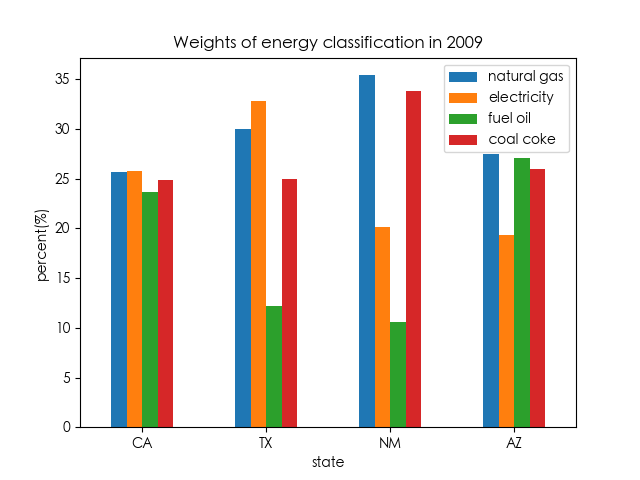
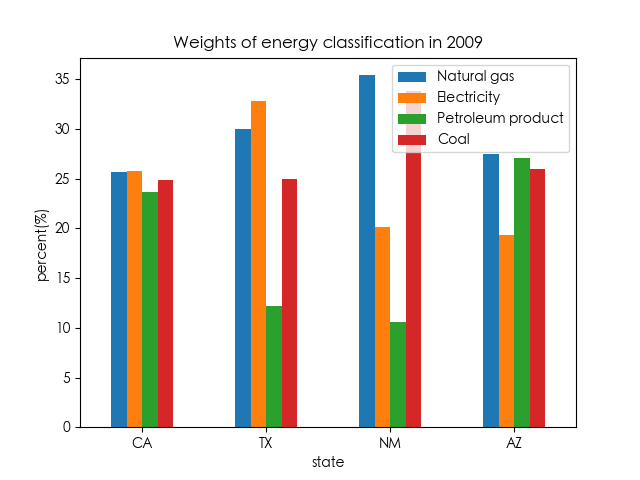
chore: update the paper and code figures

Changed region(s): [[0.5938, 0.125, 0.875, 0.3438]]

diff --git a/Model.tex b/Model.tex
@@ -71,13 +71,10 @@
 \par A data file provides 50 years of data in 605 variables on each of these four states' energy production and consumption, along with some demographic and economic information. In order to inform a set of goals for the new interstate energy compact, we will analyze the given data and model.
 
 
-
-
-
-\subsection{Problem Restatement and Analysis}
+\subsection{Problem Restatement}
 %这一部分写问题分析以及我们要解决的问题
-\subsubsection{Probelms of Part \uppercase\expandafter{\romannumeral1}}
-\par For Problem A, in order to lay the foundation of analyzing , we are required to create an energy profile for each of the four states. Meanwhile, the profiles should be created on the analysis of the given data.
+% \subsubsection{Part \uppercase\expandafter{\romannumeral1}}
+\par For Problem A, in order to lay the foundation of analyzing, we are required to create an energy profile for each of the four states. Meanwhile, the profiles should be created on the analysis of the given data.
 
 \par In regard to Problem B, 
 
@@ -85,12 +82,12 @@
 
 \par For Problem D, in order to predict energy profile of usage of each state in 2025 and 2050, we need to base on the results of Problem A, B, C and the given data to establish regression equations or other models.
 
-\subsubsection{Problems of Part \uppercase\expandafter{\romannumeral2}}
-\par It is suggested in the Problem A that, we need to build a target model, which is based on the problems of Part $\uppercase\expandafter{\romannumeral1}$ to give the four states goals for the new four-state energy compact.
+% \subsubsection{Part \uppercase\expandafter{\romannumeral2}}
+\par It is suggested in the Problem A that,
 
 \par As for Problem B, we are supposed to give some suggestions to the governors, so that they will know that the actions they should take to meet the goals.
 
-\subsubsection{Part \uppercase\expandafter{\romannumeral3}}
+% \subsubsection{Part \uppercase\expandafter{\romannumeral3}}
 \par On the basis of the analysis and models in the two parts before, we prepare the state profiles of 2009, our predictions towards energy usage and some recommendations on adopting goals for the energy compact.
 
 
@@ -114,15 +111,15 @@ In the section, we use some symbols for constructing the model as follows.
     \toprule[2pt]
     \textbf{Symbol} & \makecell[c]{\textbf{Description}}\\
     \hline
-$R$&The correlation coefficient matrix of natural gas, electricity, fuel oil and coal coke.\\ 
+$R$&The correlation coefficient matrix of natural gas, electricity, petroleum products and coal.\\ 
 $\lambda_i$&The eigenvalue of R, i=1,2,3,4.\\
 $U$&The Eigenvector matrix for the eigenvalues of R.\\ 
 $A$&The factor loading matrix.\\
 $f_i$&Factor, i=1,2.\\ 
 $w_1$&The weight of natural gas.\\ 
 $w_2$&The weight of electricity.\\ 
-$w_3$&The weight of fuel oil.\\ 
-$w_4$&The weight of coal coke.\\ 
+$w_3$&The weight of petroleum products.\\ 
+$w_4$&The weight of coal.\\ 
 $\eta_1$&The proportion of renewable energy in total energy.\\
 $\eta_2$&The proportion of different sector in renewable energy usage.\\
 $Y$&The level of renewable energy usage.\\ 
@@ -179,7 +176,7 @@ $S_i$&The amount of the total renewable energy usage of each of the four states,
 
 \begin{figure}[h]%[!hptb]
     \centering 
-    \includegraphics[width=0.8\textwidth]{./Pic/msn_5.png}
+    \includegraphics[width=0.65\textwidth]{./Pic/msn_5.png}
     % 图片标题
     \caption{The meaning of a MSN code, emphasizing the fifth character. Reference \url{https://www.eia.gov/state/seds/sep_use/notes/use_a.pdf}}
     \label{fig:msn_5}  
@@ -196,44 +193,64 @@ $S_i$&The amount of the total renewable energy usage of each of the four states,
 \subsubsection {MSN classification analysis by energy unit}
 
 
+\par In order to classify the 215 MSNs more clearly, we look into everyone of the division and find that a large percent of the kinds have the suffix P, which represents the standardized physical units. Physical units naturally represent for the energy classification in the real physical world, and there are mainly \textbf{4 kinds of standardized physical units} in the data set as can be seen in figure \ref{tab:energy-unit}, so it is reasonable to classify the data into 4 groups according to the units.
+% \par According to the analysis above, we suppose the four units as the following representatives.
 
-\par In order to classify the 215 MSNs more clearly, we look into everyone of the division and find that a large percent of the kinds have the suffix P, which represents the standardized physical units. Physical units naturally represent for the energy classification in the real physical world, and there are mainly \textbf{4 kinds of standardized physical units} in the data set as can be seen in figure \ref{fig:classification_by_unit}, so it is reasonable to classify the data into 4 groups according to the units.
-\par According to the analysis above, we suppose the four units as the following representatives.
-\par \textbf{fule oil}: Thousand barrels;
-\textbf{coal coke}: Thousand short tons;
-\textbf{electricity}: Million kilowatt-hours;
-\textbf{natural gas}: Million cubic feet.
+\begin{table}[H]
+    \centering
+    \begin{tabular}{|c|c|}
+        \hline Energy name & Unit\\
+        \hline Petroleum product & Thousand barrels\\
+        \hline Coal & Thousand short tons\\
+        \hline Electricity & Million kilowatthours\\
+        \hline Natural gas & Million cubic feet\\
+        \hline
+    \end{tabular}
+    \caption{Energy name and unit reference table}\label{tab:energy-unit}
+\end{table}
 
-\begin{figure}[!h]%[!hptb] 
-    \centering 
-    \includegraphics[width=0.8\textwidth]{./Pic/classification_by_unit.png}
-    \caption{Classification by unit in the suffix P.}
-    \label{fig:classification_by_unit}  
-\end{figure}
+
+% \par Fule oil related MSN are: ABICP, ARICP, ARTCP, ARTXP, AVACP, AVTCP, AVTXP, CLTXP, COICP, DFACP, DFCCP, DFICP, DFRCP, DFTCP, DFTXP, DKEIP, EMTCP, ENACP, ENCCP, ENICP, ENPRP, ENTCP, ESTXP, FNICP, FOICP, FSICP, JFACP, JFTCP, JFTXP, JKACP, JKTCP, JNACP, JNTCP, KSCCP, KSICP, KSRCP, KSTCP, KSTXP, LGACP, LGCCP, LGICP, LGRCP, LGTCP, LGTXP, LUACP, LUICP, LUTCP, LUTXP, MBICP, MGACP, MGCCP, MGICP, MGTCP, MGTXP, MSICP, NAICP, P1ICP, P1TCP, P1TXP, PAACP, PACCP, PAEIP, PAICP, PAPRP, PARCP, PATCP, PATXP, PCCCP, PCEIP, PCICP, PCTCP, PLICP, POICP, POTCP, POTXP, PPICP, RFACP, RFCCP, RFEIP, RFICP, RFTCP, RFTXP, SGICP, SNICP, UOICP, USICP and WXICP;
+% \par coal related MSN are: CCEXP, CCIMP, CCNIP, CLACP, CLCCP, CLEIP, CLICP, CLKCP, CLOCP, CLPRP, CLRCP and CLTCP;
+% \par Electricity related MSN are: ELEXP, ELIMP, ELNIP, ESACP, ESCCP, ESICP, ESRCP, ESTCP, GEEGP, HYCCP, HYEGP, HYICP, HYTCP, HYTXP, NUEGP, NUETP, SOEGP and WYEGP;
+% \par Natural gas related MSN are: NGACP, NGCCP, NGEIP, NGICP, NGLPP, NGMPP, NGPZP, NGRCP, NGTCP, NGTXP and NGVHP.
+
+
+% \par \textbf{fule oil}: Thousand barrels;
+% \textbf{coal}: Thousand short tons;
+% \textbf{electricity}: Million kilowatt-hours;
+% \textbf{natural gas}: Million cubic feet.
+
+% \begin{figure}[!h]%[!hptb] 
+%     \centering 
+%     \includegraphics[width=0.8\textwidth]{./Pic/classification_by_unit.png}
+%     \caption{Classification by unit in the suffix P.}
+%     \label{fig:classification_by_unit}  
+% \end{figure}
 
 % 4.2
 \subsection{Factor analysis function}
 
-\par There are many relationships among MSNs. To simplify the complex dependencies between the four energy classification, we used factor analysis to establish an optimal model to analyze the actual weights of the four types of energy sources by following steps\cite{2}:
+\par There are many relationships among MSNs. To simplify the complex dependencies between the four energy classification, we used factor analysis to establish an optimal model to analyze the actual weights of the four types of energy sources.
 
 % \par According to the Formula in the Table A1.Consumption Variables,\cite{4} we remove variables that can be obtained by addition and subtraction of other variables so that we can avoid the repeat of variables when we calculate the correlation coefficient matrix. 
-\begin{enumerate}[Step 1:]
-\item Standardize data samples.
+% \begin{enumerate}[Step 1:]
+% \item Standardize data samples.
 
-\item Calculate the correlation matrix R of the sample.
+% \item Calculate the correlation matrix R of the sample.
 
-\item Find the eigenvalues and eigenvectors of the correlation matrix R.
+% \item Find the eigenvalues and eigenvectors of the correlation matrix R.
 
-\item According to the cumulative contribution rate of the system to determine the number of the main factor.
+% \item According to the cumulative contribution rate of the system to determine the number of the main factor.
 
-\item Calculate the factor load matrix A.
+% \item Calculate the factor load matrix A.
 
-\item Determine the factor model.
+% \item Determine the factor model.
 
-\item Based on the above calculation results, the system is analyzed.
-\end{enumerate}
+% \item Based on the above calculation results, the system is analyzed.
+% \end{enumerate}
 
-\par By using the given data, we can obtain R, which is the correlation coefficient matrix of natural gas, electricity, fuel oil and coal coke.
+\par By using the given data, we can obtain R, which is the correlation coefficient matrix of natural gas, electricity, petroleum products and coal.
 \begin{equation}
     \centering
 R=\begin{pmatrix} 1 & r_{12} & r_{13} & r_{14} \\ r_{21} & 1 & r_{23} & r_{24} \\ r_{31} & r_{32} & 1 & r_{34} \\ r_{41} & r_{42} & r_{43} & 1\end{pmatrix}
@@ -300,11 +317,11 @@ the second row of A is
 \end{equation}
 \begin{equation}
     \centering
-    \text{fuel oil}=a_{31} \times f_1+a_{32} \times f_2
+    \text{petroleum products}=a_{31} \times f_1+a_{32} \times f_2
 \end{equation}
 \begin{equation}
     \centering
-    \text{coal coke}=a_{41} \times f_1+a_{42} \times f_2
+    \text{coal}=a_{41} \times f_1+a_{42} \times f_2
 \end{equation}
 \par The definition of the weight of variables is\cite{5}
 \begin{equation}
@@ -316,7 +333,7 @@ w_i=\frac{ \theta_i }{ \sum_{i=1}^{4}\theta_i } \times 100\%
 \theta_i=A[i,1] \times \lambda_1+A[i,2] \times \lambda_2+A[i,3] \times \lambda_3+A[i,4] \times \lambda_4
 \end{equation}
 
-\par Therefore, we can obtain the weight of natural gas, electricity, fuel oil and coal coke, which are between 0\% and 100\%.
+\par Therefore, we can obtain the weight of natural gas, electricity, petroleum products and coal, which are between 0\% and 100\%.
 
 \[
 w_1, w_2, w_3, w_4.
@@ -325,16 +342,17 @@ w_1, w_2, w_3, w_4.
 % 4.2.2
 \subsubsection{Profiles of four kinds of energy}
 
-\par From the point of the factor analysis model, we can obtain the weights of variables of the four states in 2009 as follows.
+\par From the point of the factor analysis model, we can easily find that $f_1$ is a positive factor for natural gas, petroleum products, coal, and a negative factor for electricity. Meanwhile, $f_2$ is a positive factor for coal, and a negative factor for natural gas, electricity, petroleum products. 
+    So we can obtain the weights of variables of the four states in 2009 as the following figure:
 
 \begin{figure}[H] 
     \centering 
-    \includegraphics[width=0.8\textwidth]{./Pic/1-1.png}
+    \includegraphics[width=0.7\textwidth]{./Pic/1-1.png}
     \caption{Weights of energy classification in 2009}
     \label{fig:1-1}
 \end{figure}
 
-\par According to figure \ref{fig:1-1}, the contribution rates of the four kinds of energy are very close in California. But in New Mexico and Texas, natural, electricity, and coal coke are main energy, because the addition of their contribution rates is over 85\%. And in Arizona, the contribution rate of electricity is less than the other energy. 
+\par According to figure \ref{fig:1-1}, the contribution rates of the four kinds of energy are very close in California. But in New Mexico and Texas, natural, electricity, and coal are main energy, because the addition of their contribution rates is over 85\%. And in Arizona, the contribution rate of electricity is less than the other energy. 
 
 % 4.3
 \subsection{Renewable energy profile}
@@ -357,7 +375,7 @@ So this is indeed the representative MSN variable of the usage of renewable ener
 
 \begin{figure}[H]%[!hptb] 
     \centering 
-    \includegraphics[width=0.6\textwidth]{./Pic/1-2.png}
+    \includegraphics[width=0.7\textwidth]{./Pic/1-2.png}
     % 图片标题
     \caption{The proportion of renewable energy in total energy of four states in 2009.}
     \label{fig:1-2}  
@@ -412,13 +430,11 @@ we will use a new model Analytic Hierarchy Process (AHP) to deal with the analys
 \subsubsection{Model improvement with time factor}
 \par Along with how to bring time factor into the model, we have a basic solution of calculating the result of the model of each year and then displaying the result in a line chart. 
 
-\par Take California as an example, we firstly use the factor analysis model to classify the energy into 4 kinds and divide them by 5 sectors, and according to step-counting principle, we get 4$\times$5 groups of basic energy profile unit. For everyone in the 20 units, we build a line chart to describe the trend as the year changes and put all of them into one diagram to have a more intuitive comparison, as can be seen in figure \ref{fig:part-2-CA}.  
-\par Results of other states can be seen in the Appendix. % TODO: which appendix?
+\par Take California as an example, we firstly use the factor analysis model to classify the energy into 4 kinds and divide them by 5 sectors, and according to step-counting principle, we get 4$\times$5 groups of basic energy profile unit. For everyone in the 20 units, we build a line chart to describe the trend as the year changes and put all of them into one diagram to have a more intuitive comparison, as can be seen in figure \ref{fig:part-2-CA}. And results of results of other states can be seen in the Appendix. % TODO: which appendix?
 
-% TODO: 图片错位
 \begin{figure}[H]%[!hptb] 
     \centering 
-    \includegraphics[width=0.9\textwidth]{./Pic/part-2-CA.png}
+    \includegraphics[width=0.9\textwidth]{./Pic/B-classify-CA.png}
     % 图片标题
     \caption{Evolution of energy profile of CA (1960-2009).}
     \label{fig:part-2-CA}  
@@ -515,7 +531,7 @@ Clearly, the score of California and Texas is much greater than New Mexico and A
 Then we calculate the scores of the four states in every year and draw a line chart as follows.
 \begin{figure}[!hptb] 
     \centering 
-    \includegraphics[width=0.8\textwidth]{./Pic/B-level-predict.png}
+    \includegraphics[width=0.7\textwidth]{./Pic/B-level-predict.png}
     \caption{Scores based on the total renewable energy usage from 1960 to 2009}
     \label{fig:B-level-predict}
 \end{figure}
@@ -526,7 +542,7 @@ Then we calculate the scores of the four states in every year and draw a line ch
 \par When we talk about the analytic hierarchy model based on per capita renewable energy usage, we just need to change CA, TX, NM, AZ to CA, TX, NM, AZ divided by the total population of each state. Therefore, similarly, we can obtain the scores based on the per capita energy usage of the four states in each year from 1960 to 2009, and draw the line chart as follows.
 \begin{figure}[H] 
     \centering 
-    \includegraphics[width=0.8\textwidth]{./Pic/B-level-percapita.png}
+    \includegraphics[width=0.7\textwidth]{./Pic/B-level-percapita.png}
     \caption{Scores based on the per capita renewable energy usage from 1960 to 2009}
     \label{fig:B-level-percapita}
 \end{figure}
@@ -538,7 +554,7 @@ Then we calculate the scores of the four states in every year and draw a line ch
 \par We have taken the five sectors' influence into consideration in the AHP model to get the renewable energy usage proportion, and it works well when comparing the sector influence among four states, but it can not describe the proportion of different sectors in a state. So we calculate the proportion of renewable energy usage of different sectors in every state in every year from 1960 to 2009 and obtain figure \ref{fig:B-percent}.
 \begin{figure}[H]%[!hptb] 
     \centering 
-    \includegraphics[width=0.7\textwidth]{./Pic/B-percent.png}
+    \includegraphics[width=0.8\textwidth]{./Pic/B-percent.png}
     % 图片标题
     \caption{The proportion of renewable energy usage of different sectors of four states in 2009}
     \label{fig:B-percent}  
@@ -848,7 +864,7 @@ Arizona & 85817.10767 & 130949.4257 \\
 
 
 \newpage%另起一页书写正文
-\thispagestyle{empty}%本页不遍页码
+% \thispagestyle{empty}%本页不遍页码
 %以下是参考文献
 \phantomsection%生成该页的链接
 \addcontentsline{toc}{section}{\refname}
@@ -893,26 +909,25 @@ U.S. Energy Information Administration, State Energy Data System (SEDS): 1960-20
 
 \newpage%另起一页书写
 \begin{appendices} 
-    \pagestyle{empty}
+    % \pagestyle{empty}
     \section*{Figures}
 \begin{figure}[h]%[!hptb] 
     \centering
     \includegraphics[width=0.7\textwidth]{./Pic/1-3.png}
     % 图片标题
     \caption{The weights of variables of the four states in 2009.}
-    \label{fig:part-2-AZ}  
 \end{figure}
 \begin{figure}[h]%[!hptb] 
     \centering
-    \includegraphics[width=0.7\textwidth]{./Pic/part-2-AZ.png}
+    \includegraphics[width=0.7\textwidth]{./Pic/B-classify-AZ.png}
     % 图片标题
     \caption{Evolution of energy profile of AZ (1960-2009).}
-    \label{fig:part-2-AZ}  
+    \label{fig:part-2-AZ}
 \end{figure}
 
 \begin{figure}[h]%[!hptb] 
     \centering 
-    \includegraphics[width=0.7\textwidth]{./Pic/part-2-NM.png}
+    \includegraphics[width=0.7\textwidth]{./Pic/B-classify-NM.png}
     % 图片标题
     \caption{Evolution of energy profile of NM (1960-2009).}
     \label{fig:part-2-NM}  
@@ -920,7 +935,7 @@ U.S. Energy Information Administration, State Energy Data System (SEDS): 1960-20
 
 \begin{figure}[h]%[!hptb] 
     \centering 
-    \includegraphics[width=0.7\textwidth]{./Pic/part-2-TX.png}
+    \includegraphics[width=0.7\textwidth]{./Pic/B-classify-TX.png}
     % 图片标题
     \caption{Evolution of energy profile of TX (1960-2009).}
     \label{fig:part-2-TX}  
@@ -1324,7 +1339,7 @@ if __name__ == '__main__':
             df_final.loc[len(df_final)] = [year, state] + list(df_weight['weight'])
     df_final = df_final.rename(columns={
         "Million cubic feet": "natural gas", "Million kilowatthours": "electricity",
-        "Thousand barrels": "fuel oil", "Thousand short tons": "coal coke"})
+        "Thousand barrels": "petroleum products", "Thousand short tons": "coal"})
     df_final.to_csv('./data/A-final.csv', index=False)
     df_final.drop(['year'], axis=1).plot(x='state', kind='bar', rot=0)
     plt.title('Weights of energy classification in 2009', fontweight='bold')

diff --git a/Code/profile_1.py b/Code/profile_1.py
@@ -124,8 +124,8 @@ if __name__ == '__main__':
             if len(df_final) == 0:
                 df_final = pd.DataFrame(columns=['year', 'state'] + list(df_weight['name']))
             df_final.loc[len(df_final)] = [year, state] + list(df_weight['weight'])
-    df_final = df_final.rename(columns={"Million cubic feet": "natural gas", "Million kilowatthours": "electricity",
-                                        "Thousand barrels": "fuel oil", "Thousand short tons": "coal coke"})
+    df_final = df_final.rename(columns={"Million cubic feet": "Natural gas", "Million kilowatthours": "Electricity",
+                                        "Thousand barrels": "Petroleum product", "Thousand short tons": "Coal"})
     df_final.to_csv('./data/A-final.csv', index=False)
     df_final.drop(['year'], axis=1).plot(x='state', kind='bar', rot=0)
     plt.title('Weights of energy classification in 2009', fontweight='bold')
